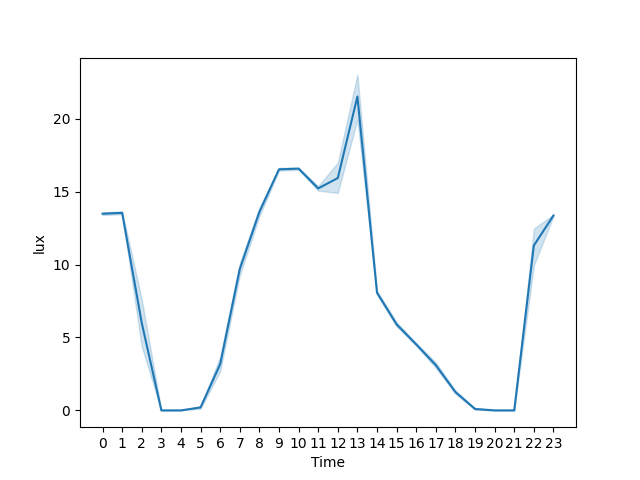
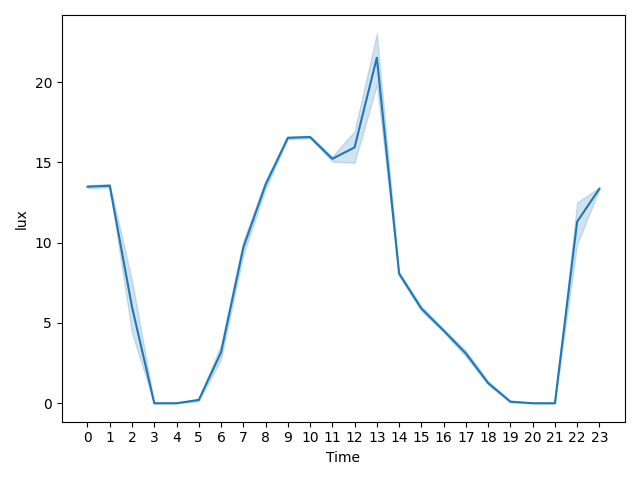
.

diff --git a/test_mini_chamber.py b/test_mini_chamber.py
@@ -47,27 +47,28 @@ def draw_graph(date, y):
     ax.set_xlabel('Time')
     # ax.set_title(f'{date}-{y} graph')
     # plt.show()
+    plt.tight_layout()
     plt.savefig(f'output/graph/{date}_{y}.png')
 
 
 
 def main():
-    get_data()
+    # get_data()
 
     now = datetime.now()
     now_date = now.date()
     now_date = '2024-05-18'
 
-    date = '2024-05-20'
-    draw_graph(date, 'temp')
-    draw_graph(date, 'hum')
-    draw_graph(date, 'lux')
+    # date = '2024-05-20'
+    # draw_graph(date, 'temp')
+    # draw_graph(date, 'hum')
+    # draw_graph(date, 'lux')
 
-    # for date in ['2024-05-18', '2024-05-19', '2024-05-20', '2024-05-21', '2024-05-22', '2024-05-23']:
-    #
-    #     draw_graph(date, 'temp')
-    #     draw_graph(date, 'hum')
-    #     draw_graph(date, 'lux')
+    for date in ['2024-05-18', '2024-05-19', '2024-05-20', '2024-05-21', '2024-05-22', '2024-05-23']:
+
+        draw_graph(date, 'temp')
+        draw_graph(date, 'hum')
+        draw_graph(date, 'lux')
 
 if __name__ == '__main__':
     main()
